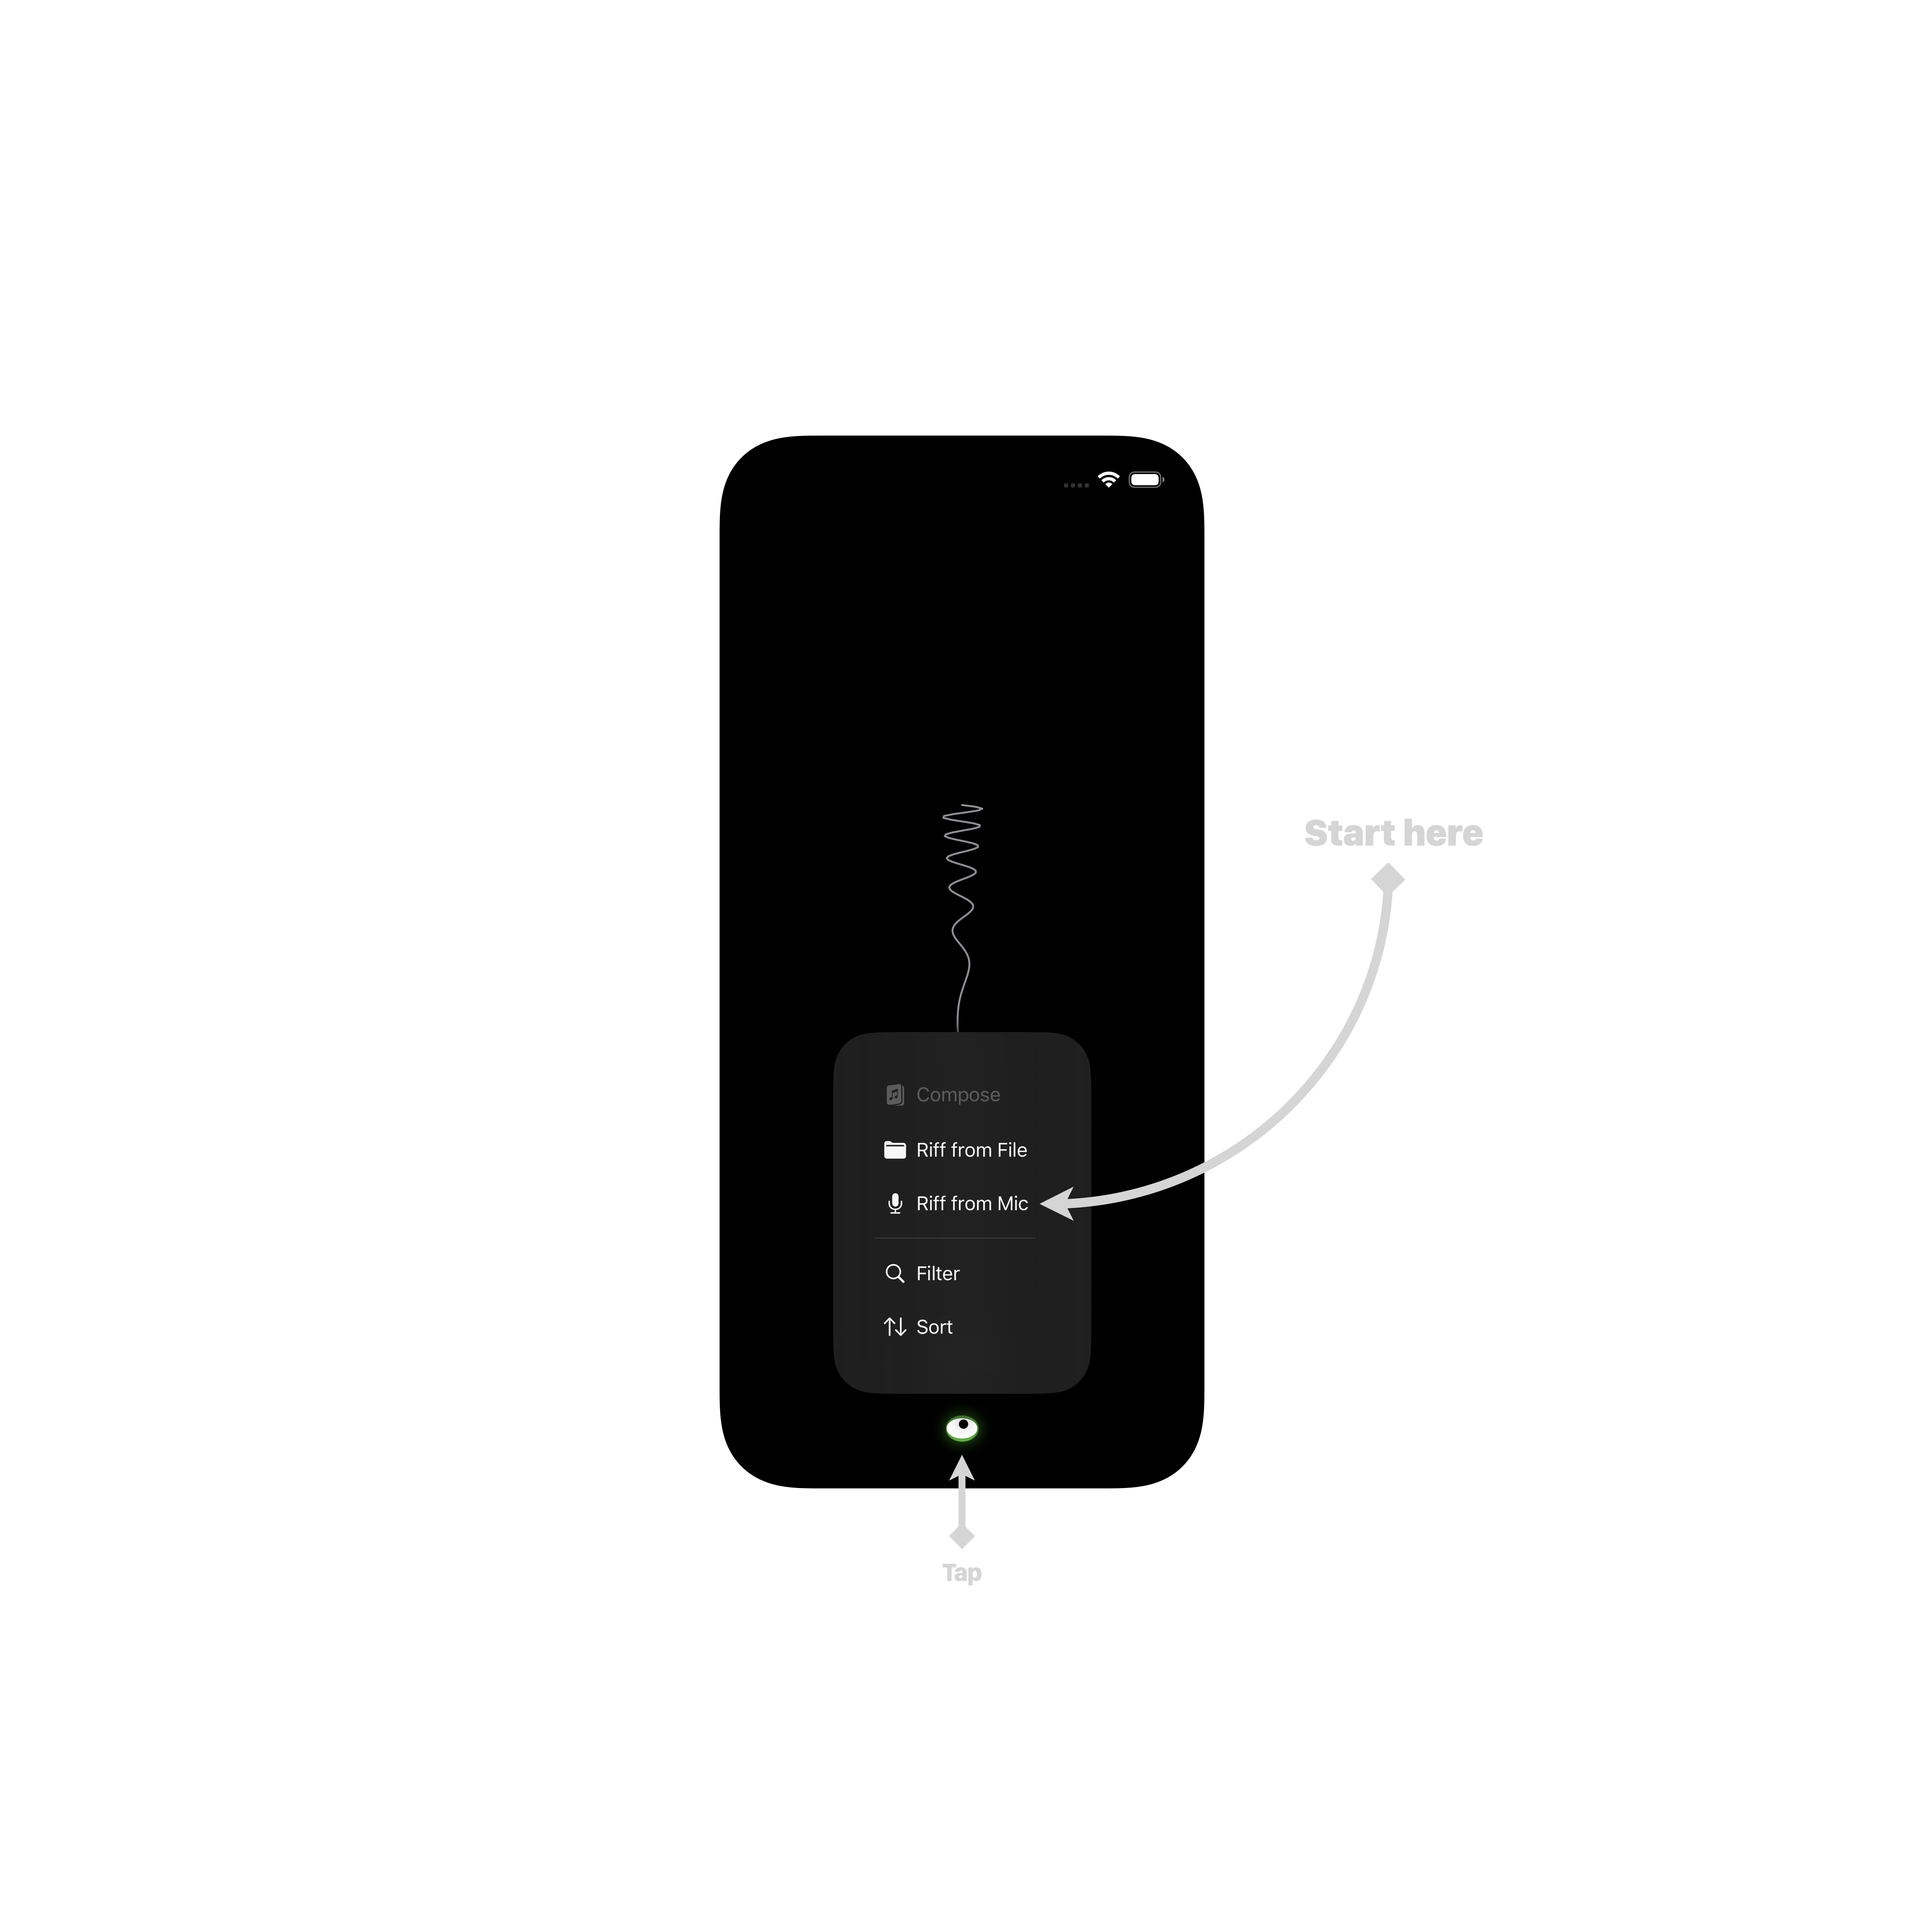
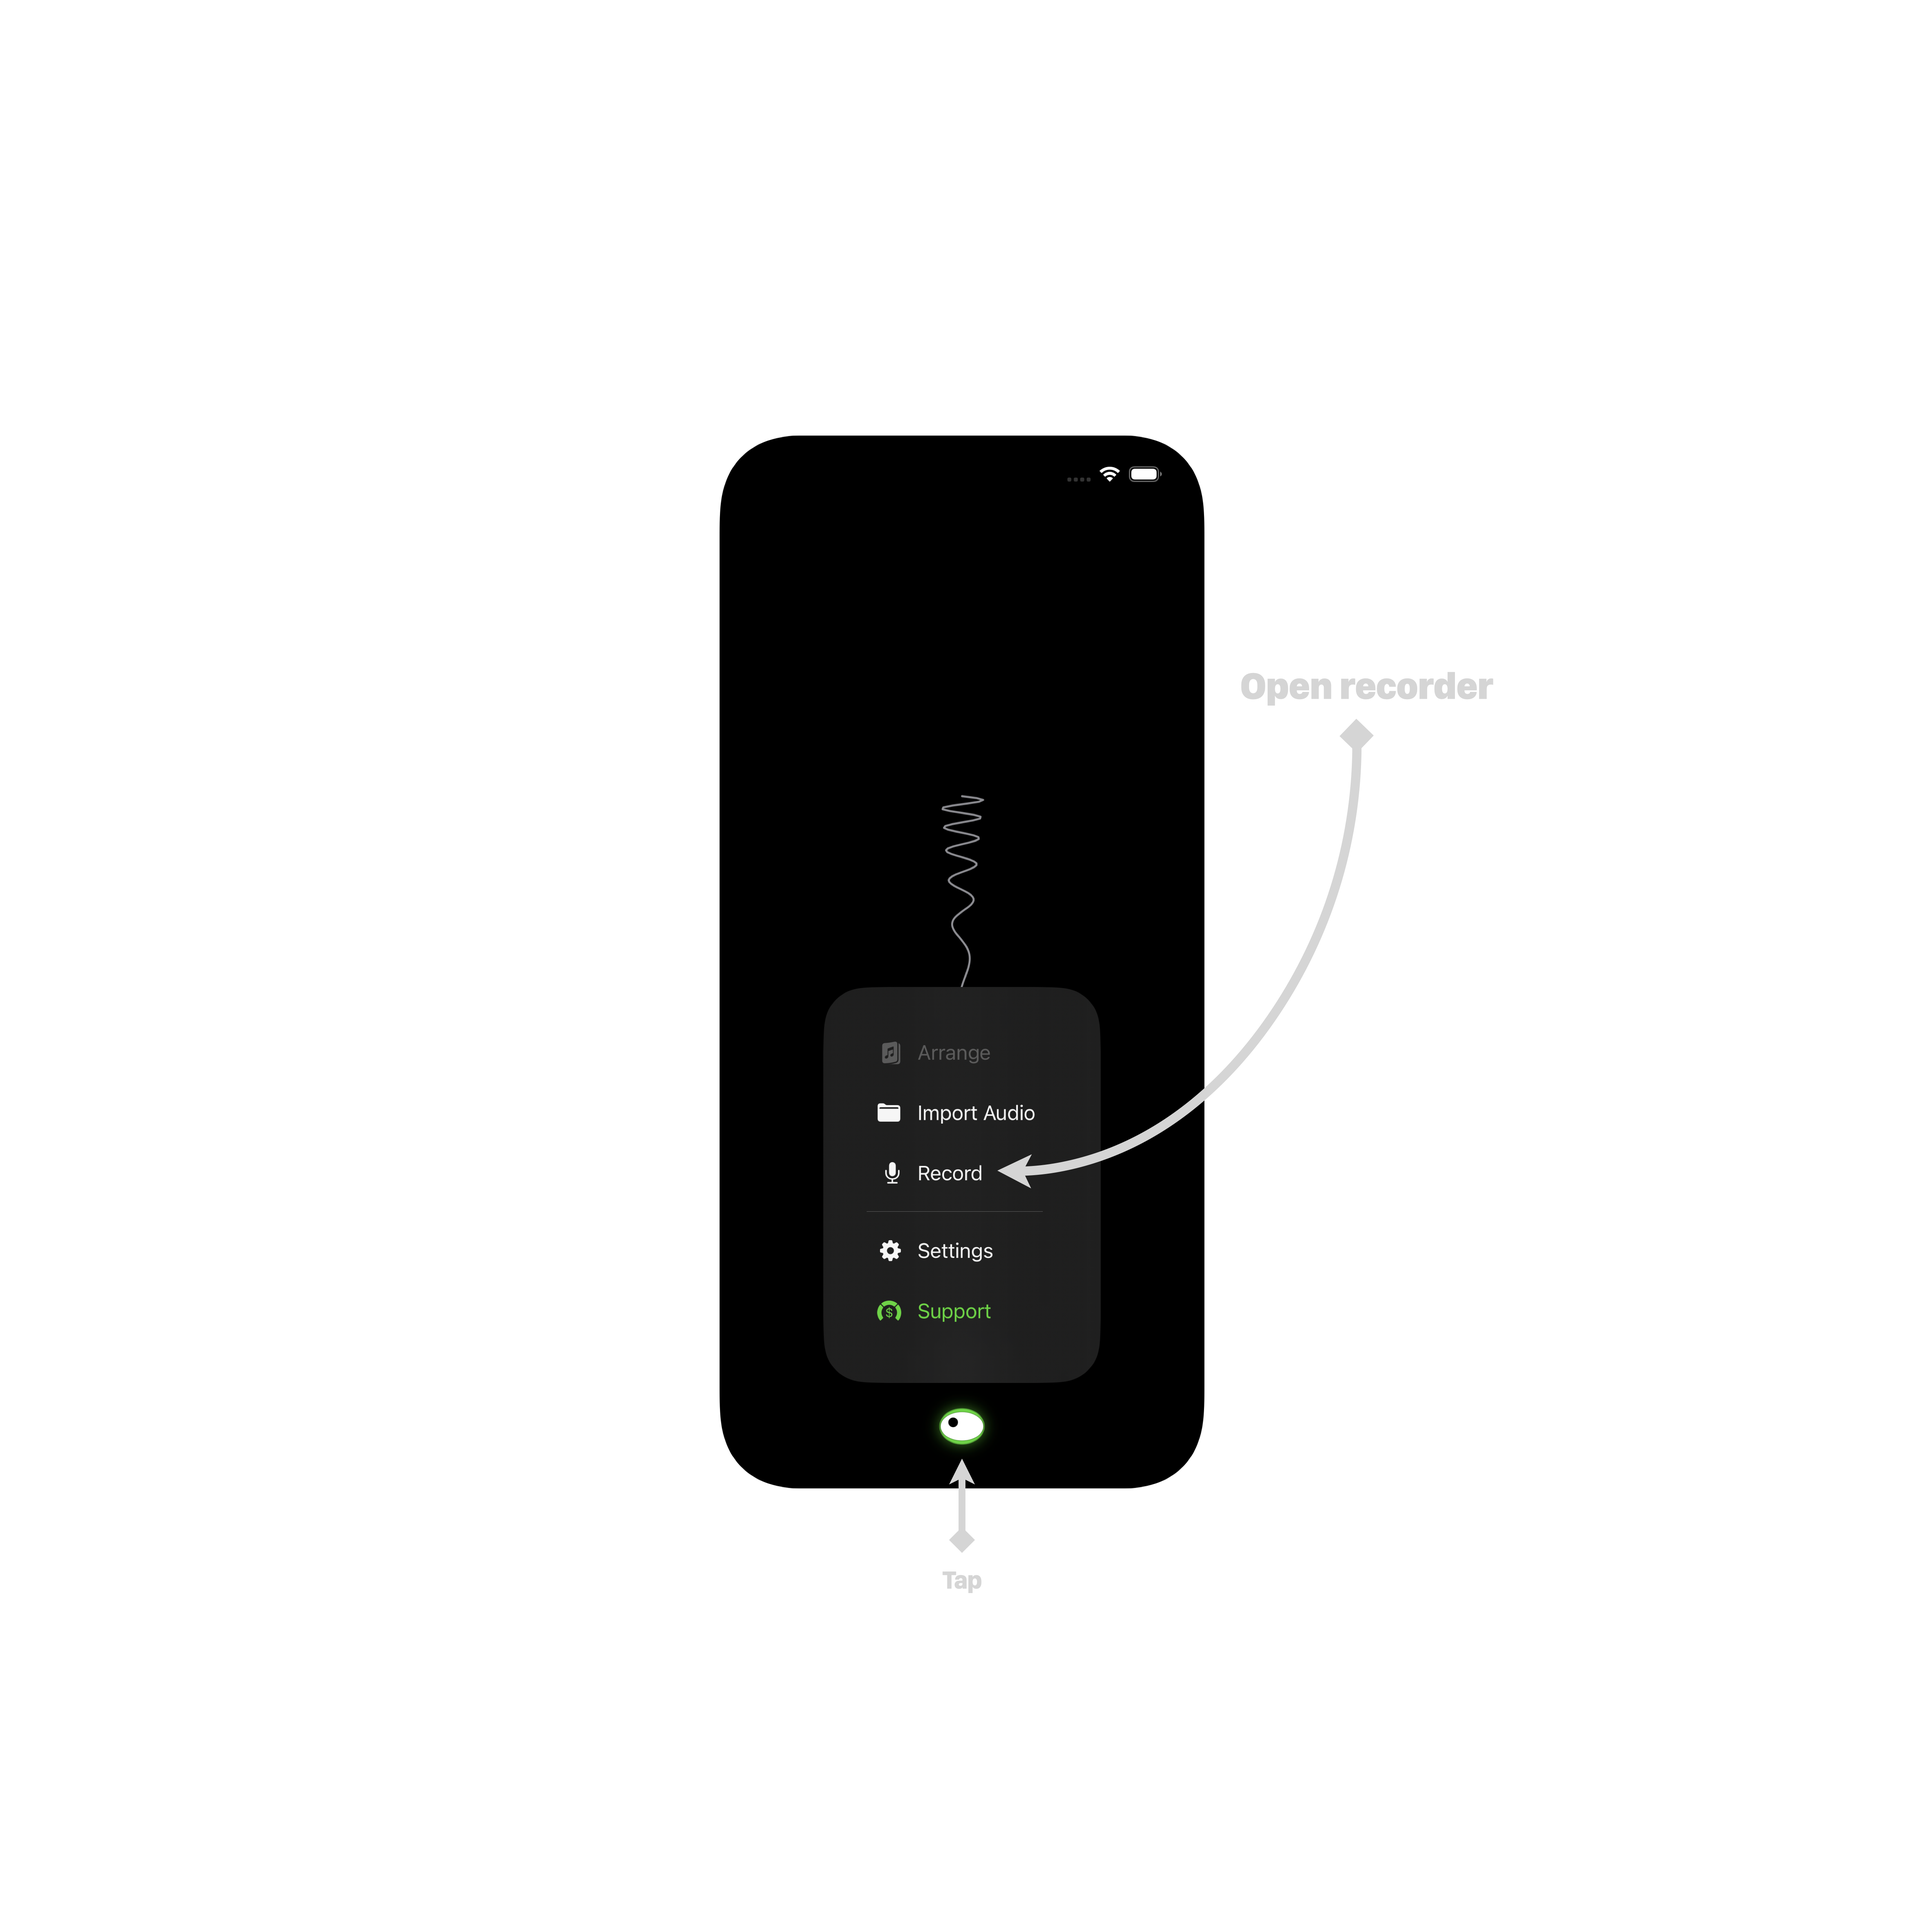
Update carousel screenshots and alt text
Refresh the app screenshots (2 new, 7 updated) and rewrite all alt
text to a consistent "Location — action" format describing each step.

Claude-Session: https://claude.ai/code/session_01AjvG7zWF9b5WsWMKKgcN5f

diff --git a/index.html b/index.html
@@ -56,25 +56,31 @@ description: An iOS App for musical brainstorming.
         <div id="carousel-track" class="flex transition-transform duration-500 ease-in-out">
 
           <div class="carousel-slide w-full shrink-0">
-            <img src="assets/images/images.001.png" alt="The Library — tap the Eye button" class="w-full" />
+            <img src="assets/images/images.001.png" alt="Home — tap the eye button to open the recorder" class="w-full" />
           </div>
           <div class="carousel-slide w-full shrink-0">
-            <img src="assets/images/images.002.png" alt="Recorder — set BPM and record with optional metronome in headphone support" class="w-full" />
+            <img src="assets/images/images.002.png" alt="Recorder — set BPM and record, with an optional backing track in headphones" class="w-full" />
           </div>
           <div class="carousel-slide w-full shrink-0">
-            <img src="assets/images/images.003.png" alt="Riff Editor — clip audio and adjust gain" class="w-full" />
+            <img src="assets/images/images.003.png" alt="Library — open the menu for a saved recording" class="w-full" />
           </div>
           <div class="carousel-slide w-full shrink-0">
-            <img src="assets/images/images.004.png" alt="The Library — select slots to compose" class="w-full" />
+            <img src="assets/images/images.004.png" alt="Library — create a new riff to open the editor" class="w-full" />
           </div>
           <div class="carousel-slide w-full shrink-0">
-            <img src="assets/images/images.005.png" alt="Composition Canvas — arrange slots on the canvas" class="w-full" />
+            <img src="assets/images/images.005.png" alt="Editor — adjust clip boundaries, then save" class="w-full" />
           </div>
           <div class="carousel-slide w-full shrink-0">
-            <img src="assets/images/images.006.png" alt="Composition Canvas — tools to stack, duplicate, group, and delete slots on the canvas" class="w-full" />
+            <img src="assets/images/images.006.png" alt="Library — select a riff, then arrange it onto a canvas" class="w-full" />
           </div>
           <div class="carousel-slide w-full shrink-0">
-            <img src="assets/images/images.007.png" alt="Composition Canvas — filter, sort, and place slots on the canvas from The Library" class="w-full" />
+            <img src="assets/images/images.007.png" alt="Canvas — arrange slots on the canvas, then save" class="w-full" />
+          </div>
+          <div class="carousel-slide w-full shrink-0">
+            <img src="assets/images/images.008.png" alt="Canvas — stack, group, duplicate, or delete slots" class="w-full" />
+          </div>
+          <div class="carousel-slide w-full shrink-0">
+            <img src="assets/images/images.009.png" alt="Canvas — sort or filter the library, then add slots to the canvas" class="w-full" />
           </div>
         </div>
 
@@ -88,6 +94,8 @@ description: An iOS App for musical brainstorming.
             <button class="carousel-dot w-2.5 h-2.5 rounded-full bg-white/40 cursor-pointer" data-slide="4" aria-label="Slide 5"></button>
             <button class="carousel-dot w-2.5 h-2.5 rounded-full bg-white/40 cursor-pointer" data-slide="5" aria-label="Slide 6"></button>
             <button class="carousel-dot w-2.5 h-2.5 rounded-full bg-white/40 cursor-pointer" data-slide="6" aria-label="Slide 7"></button>
+            <button class="carousel-dot w-2.5 h-2.5 rounded-full bg-white/40 cursor-pointer" data-slide="7" aria-label="Slide 8"></button>
+            <button class="carousel-dot w-2.5 h-2.5 rounded-full bg-white/40 cursor-pointer" data-slide="8" aria-label="Slide 9"></button>
           </div>
         </div>
 
@@ -107,9 +115,9 @@ description: An iOS App for musical brainstorming.
   (function() {
     var track = document.getElementById('carousel-track');
     var dots = document.querySelectorAll('.carousel-dot');
-    var SLIDE_COUNT = 7;
-    var AUTO_INTERVAL = 6600;
-    var PAUSE_DURATION = 66000;
+    var SLIDE_COUNT = 9;
+    var AUTO_INTERVAL = 3000;
+    var PAUSE_DURATION = 30000;
     var current = 0, autoTimer = null, pauseTimer = null;
 
     function go(n) {
